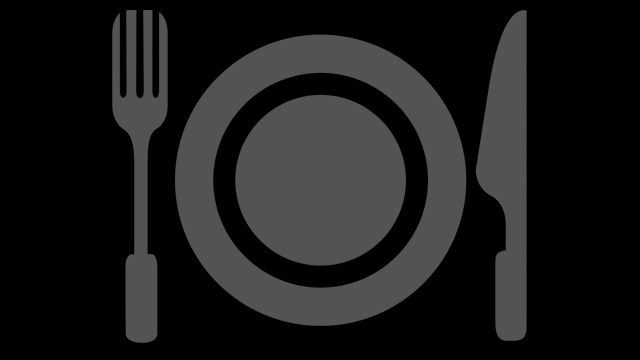
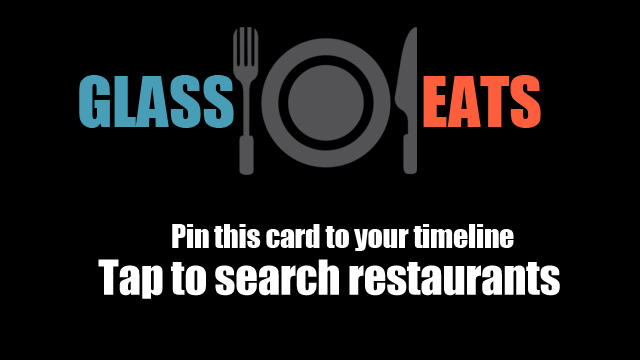
adding bundle cover, updating greeting card cover and trying uuid without dashes as bundle id

diff --git a/mirror/yelp_bundle.py b/mirror/yelp_bundle.py
@@ -25,18 +25,36 @@ def insert_worker(mirror_service, food_type=None):
     }
 
     is_first = True
-    for i in xrange(5):
-        #body['bundleId'] = str(uuid.uuid1())
-        body['bundleId'] = 'bundleId2'
-        body['isBundleCover'] = is_first
-        is_first = False
-        if food_type:
-            body['text']='%s : %s' % (food_type, response.values()[2][i]['name'])
-        else: 
-            body['text']=response.values()[2][i]['name']
 
+
+
+    for i in xrange(10):
+        body['bundleId'] = str(uuid.uuid1()).replace('-','')
+        #body['bundleId'] = 'bundleId3'
+        body['isBundleCover'] = is_first
+
+
+        if is_first:
+            body['html'] = '<article class=\"photo\">\n<img src=\"https://glasseats.appspot.com/static/images/GlassHomeRestaurantResults.png\" width=\"100%\" height=\"100%\">\n  <div class=\"photo-overlay\"/>\n  <section>\n</section>\n</article>\n'
+
+        else:
+            if food_type:
+                body['text']='%s : %s' % (food_type, response.values()[2][i]['name'])
+            else: 
+                body['text']=response.values()[2][i]['name']
+
+        is_first = False
 
         mirror_service.timeline().insert(body=body).execute()
+
+        try:
+            del body['html']
+        except KeyError:
+            pass
+        try:
+            del body['text']
+        except KeyError:
+            pass
 
 
     logging.info('zip3')

diff --git a/mirror/greeting.py b/mirror/greeting.py
@@ -8,10 +8,8 @@ def insert_item(mirror_service):
             'displayName': 'Glass Eats',
             'id':'Glass Eats'
         },
-        'html': '<div style="color"white">Welcome to Glass Eats. Pin this card to your timeline. Tap to search restaurants nearby or by restaurant type.,/div>',
 
-
-        'html':'<article class=\"photo\">\n<img src=\"https://glasseats.appspot.com/static/images/GlassHomeScreen.png\" width=\"100%\" height=\"100%\">\n  <div class=\"photo-overlay\"/>\n  <section>\n    <p class=\"text-auto-size\">Welcome to Glass Eats. Pin this card to your timeline. Tap to search restaurants nearby or by restaurant type.</p>\n  </section>\n</article>\n',
+        'html':'<article class=\"photo\">\n<img src=\"https://glasseats.appspot.com/static/images/GlassHomeScreen.png\" width=\"100%\" height=\"100%\">\n  <div class=\"photo-overlay\"/>\n  <section>\n</section>\n</article>\n',
         'menuItems': [
             {'action':'CUSTOM', 'values':[{'state':'DEFAULT', 'displayName':'Nearby', 'iconUrl':'https://glasseats.appspot.com/static/images/menu_icons/Nearby.png'}], 'id':'nearby'},
             {'action':'CUSTOM', 'values':[{'state':'DEFAULT', 'displayName':'Burgers', 'iconUrl':'https://glasseats.appspot.com/static/images/menu_icons/Burger.png'}], 'id':'burgers'},
